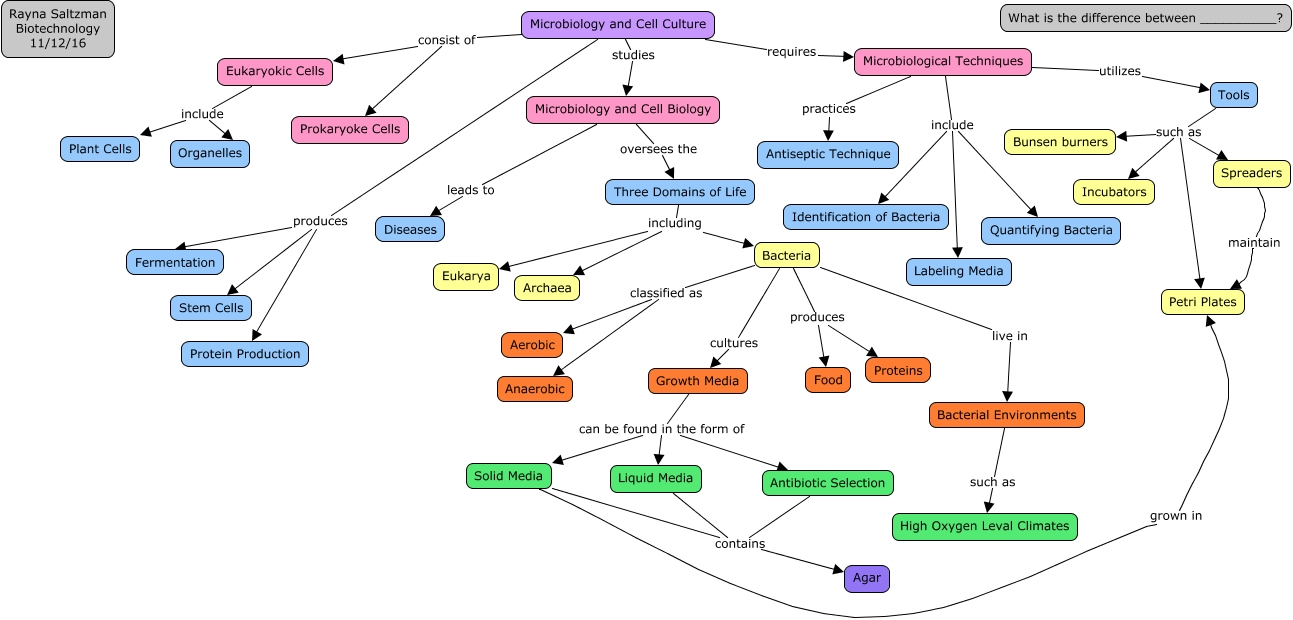
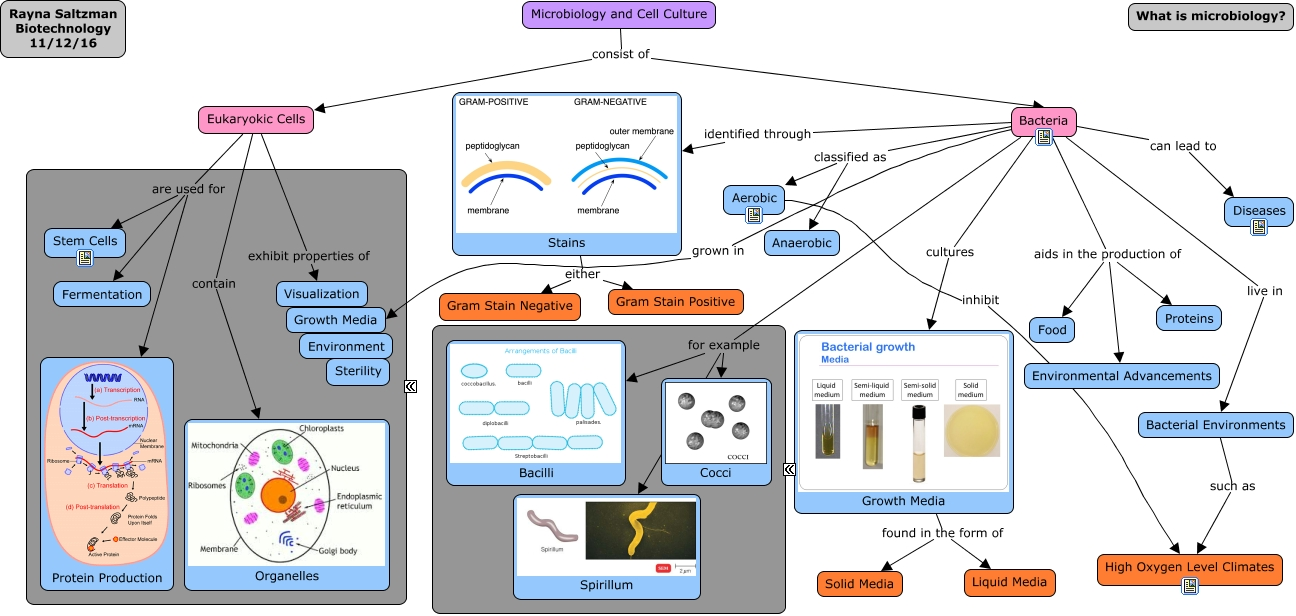
Add files via upload

diff --git a/Ch 3 CMAPweb.html b/Ch 3 CMAPweb.html
@@ -1,0 +1,332 @@
+<HTML>
+<HEAD>
+  <TITLE>Ch 3 CMAPweb.html</TITLE>
+  <meta NAME = "GENERATOR"          CONTENT = "IHMC CmapTools vr. 4.12 ">
+  <meta NAME = "KEYWORDS"           CONTENT = "Rayna Saltzman, Concept Map, cmap, CmapTools, IHMC, Ch 3 CMAP,  Visualization,  High Oxygen Level Climates,  Bacilli,  Aerobic,  Fermentation,  Diseases,  Environment,  Sterility,  Anaerobic,  Shapes,  Gram Stain Positive,  Bacteria,  Growth Media,  Organelles,  Solid Media,  Stains,  Environmental Advancements,  Liquid Media,  Rayna Saltzman Biotechnology 11/12/16,  Microbiology and Cell Culture">
+  <meta NAME = "DESCRIPTION"        CONTENT = "This Concept Map, created with IHMC CmapTools, has information related to: Ch 3 CMAP, Stains either Gram Stain Negative, Bacteria grown in Growth Media, Bacteria identified through Stains, Stains either Gram Stain Positive, Eukaryokic Cells exhibit properties of Visualization, Eukaryokic Cells are used for Stem Cells, Eukaryokic Cells contain Organelles, Microbiology and Cell Culture consist of Eukaryokic Cells, Bacteria classified as Anaerobic, Eukaryokic Cells are used for Protein Production, Bacteria for example Spirillum, Eukaryokic Cells are used for Fermentation, Bacteria aids in the production of Proteins, Bacteria for example Cocci, Growth Media found in the form of Solid Media, Bacteria cultures Growth Media, Bacteria live in Bacterial Environments, Aerobic inhibit High Oxygen Level Climates, Bacteria aids in the production of Environmental Advancements, Bacteria aids in the production of Food">
+  <meta NAME = "AUTHOR"             CONTENT = "IHMC CmapTools">
+  <meta HTTP-EQUIV = "Content-Type" CONTENT = "text/html; charset = UTF-8">
+  <script LANGUAGE="JavaScript1.2">
+  <!--
+    //  PopUp --
+    //  Institute for Human and Machine Cognition, http://www.ihmc.us/
+    //  CmapTools, Version 4.11, http://cmap.ihmc.us/
+    //  Modify by: CmapTools Developers, cmapsupport@ihmc.us
+    //  Date: 12/14/2006
+
+    var IE = 0;
+    var IE4PC = 0;
+    var NS = 0;
+    var GECKO = 0;
+
+    var openpopups = new Array();
+
+    if (document.all) {                 // Internet Explorer Detected
+	   IE = true;	
+    }
+    else if (document.layers) {         // Netscape Navigator Detected
+	   NS = true;	
+    }
+    else if (document.getElementById) { // Netscape 6 Detected
+       GECKO = true;
+    }
+    else {
+	   alert("Unrecognized Browser Detected::\nSorry, your browser is not compatible.");
+    }
+
+    if (IE)
+    {
+	   OS = navigator.platform;
+	   VER = new String(navigator.appVersion);
+	   VER = VER.substr (0, VER.indexOf(" "));
+	   if ((VER < 4.8) && (OS == "Win32")) 
+	   {
+	       IE4PC = 1;
+	   }
+    }
+
+    function handleResize() {
+	    location.reload();
+	    return false;
+    }
+
+
+    if ((NS) && (navigator.platform == "MacPPC")) {
+	   window.captureEvents (Event.RESIZE);
+	   window.onresize = handleResize;
+    }
+
+    function openResource(event, resourcePath, resourceName, resourceType)
+    {
+	   var newwindow;
+
+       // Resource MIMETypes are enumerated as follows: 
+       // cMap     = Undefined
+       // Image    = 0
+       // Video    = 1
+       // Text     = 2
+       // Audio    = 3
+
+       popDown();
+
+	   switch (resourceType) 
+	   {
+	    case 0:     //Image
+                    newwindow = window.open (resourcePath,resourceName);
+                    newwindow.onBlur = newwindow.focus()
+                    var text ='<center><img src=\"';
+                    text += resourcePath;
+                    text +='\"> </center>';
+             break;
+		
+	    case 1:  text   // Video
+		     newwindow = window.open (resourcePath,resourceName);
+                     newwindow.onBlur = newwindow.focus()
+                     var text ='<embed src=\"';
+                     text += resourcePath;
+                     text +='\" autostart=true> </embed> ';
+             break;
+
+	    case 2:      // Text or Unknown 
+		     newwindow = window.open(resourcePath,resourceName);
+                     newwindow.onBlur = newwindow.focus()
+              break;
+
+	    case 3:       // Audio
+                    newwindow = window.open (resourcePath,resourceName);
+                    newwindow.onBlur = newwindow.focus()
+                    var text ='<embed src=\"';
+                    text += resourcePath;
+                    text +='\" autoplay=true> </embed> ';
+             break;
+
+	    case 4:
+                    newwindow = window.open(resourcePath,resourceName);
+                    newwindow.onBlur = newwindow.focus()
+	     break;
+	    }
+        return;
+    }
+
+
+
+    function popUpEvt(event, popupName)
+    {
+	popDown();
+
+	if (GECKO)
+	{
+	    document.getElementById(popupName).style.left = event.layerX;
+	    document.getElementById(popupName).style.top = event.layerY;
+	    document.getElementById(popupName).style.background = "#B3B3B3";
+	    document.getElementById(popupName).style.visibility = "visible";
+	    openpopups.push(popupName);
+	}
+	else if (NS) 
+	{
+	    document.layers[popupName].moveTo (event.pageX, event.pageY);
+	    document.layers[popupName].bgColor = "#B3B3B3";
+	    document.layers[popupName].visibility = "show";
+	    openpopups.push(popupName);
+	}
+	else // if (IE)
+	{
+	    window.event.cancelBubble = true;
+	    if (!IE4PC) {
+		document.all[popupName].style.backgroundColor = "#B3B3B3";
+	    }	
+	    document.all[popupName].style.left = window.event.clientX + document.body.scrollLeft;
+	    document.all[popupName].style.top = window.event.clientY + document.body.scrollTop;
+	    document.all[popupName].style.visibility = "visible";
+	    openpopups[openpopups.length] = popupName;
+	}
+	return false;
+    }
+
+    function popDown()
+    {
+	var popupname;
+	
+	for (var i = 0; i < openpopups.length; i++) 
+	{
+	    popupname = new String (openpopups[i]);      
+	    if (GECKO) {
+		document.getElementById(popupname).style.visibility = "hidden";
+	    }
+	    else if (NS) {
+		document.layers[popupname].visibility = "hide";
+	    }
+	    else {
+		document.all[popupname].style.visibility = "hidden";
+	    }
+	}
+	openpopups = new Array();
+	return;
+    }
+
+    function popDownNoGecko() 
+    {
+	var popupname;
+	for (var i = 0; i < openpopups.length; i++) 
+	{
+	    popupname = new String (openpopups[i]);      
+	    if (GECKO) {
+           //  document.getElementById(popupname).style.visibility = "hidden"; 
+	        return;   // erased for test purposes
+	    }  
+	    else if (NS) {
+	        document.layers[popupname].visibility = "hide";
+	    }
+	    else {
+	        document.all[popupname].style.visibility = "hidden";
+	    }
+	}
+	openpopups = new Array();
+        return;
+    }
+  //-->
+  </script>
+</HEAD>
+<BODY bgcolor="#FFFFFF" leftmargin="0" topmargin="0">
+<noscript>
+  <table width=90% cellpadding=10>
+    <tr>
+      <td bgcolor=ff4447>
+        <font color=000000 size=+1 face="helvetica">
+        <h1>WARNING:</h1>
+        <b>JavaScript is turned OFF.  None of the links on this concept map will <br>
+           work until it is reactivated.
+          <p>
+            <a href="http://cmap.ihmc.us/docs/EnablingJavaScript.html">
+                            If you need help turning JavaScript On, click here.
+            </a>
+          </p>
+        </b>
+      </td>
+    </tr>
+  </table>
+This Concept Map, created with IHMC CmapTools, has information related to: Ch 3 CMAP, Stains either Gram Stain Negative, Bacteria grown in Growth Media, Bacteria identified through Stains, Stains either Gram Stain Positive, Eukaryokic Cells exhibit properties of Visualization, Eukaryokic Cells are used for Stem Cells, Eukaryokic Cells contain Organelles, Microbiology and Cell Culture consist of Eukaryokic Cells, Bacteria classified as Anaerobic, Eukaryokic Cells are used for Protein Production, Bacteria for example Spirillum, Eukaryokic Cells are used for Fermentation, Bacteria aids in the production of Proteins, Bacteria for example Cocci, Growth Media found in the form of Solid Media, Bacteria cultures Growth Media, Bacteria live in Bacterial Environments, Aerobic inhibit High Oxygen Level Climates, Bacteria aids in the production of Environmental Advancements, Bacteria aids in the production of Food
+
+</noscript>
+
+<map name="Ch 3 CMAPweb.html">
+  <area shape="rect"
+        href="1QRJP9HH5I17PWDYWIF72ItextIhtml"
+        onClick="popUpEvt(event,'1QRJP9HH5I17PWDYWIF72ItextIhtml'); return false;"
+        coords="1181,577,1199,595">
+  <area shape="rect"
+        href="1QRJRV1ZQIPDD21VIJKRItextIhtml"
+        onClick="popUpEvt(event,'1QRJRV1ZQIPDD21VIJKRItextIhtml'); return false;"
+        coords="745,206,763,224">
+  <area shape="rect"
+        href="1QRRPHL1VI2XQSS3INSKItextIhtml"
+        onClick="popUpEvt(event,'1QRRPHL1VI2XQSS3INSKItextIhtml'); return false;"
+        coords="1250,218,1268,236">
+  <area shape="rect"
+        href="1QRJP4KGGIVDD998IDNWItextIhtml"
+        onClick="popUpEvt(event,'1QRJP4KGGIVDD998IDNWItextIhtml'); return false;"
+        coords="1035,128,1053,146">
+  <area shape="rect"
+        href="1QRJLSM6PIHTX5TFI1LZItextIhtml"
+        onClick="popUpEvt(event,'1QRJLSM6PIHTX5TFI1LZItextIhtml'); return false;"
+        coords="76,249,94,267">
+</map>
+
+<center>
+  <table width=* height=* cellpadding=0 cellspacing=0 border=0>
+    <tr>
+      <td valign=center align=center>
+        <img USEMAP="#Ch 3 CMAPweb.html"
+             SRC="Ch 3 CMAPweb.jpg"
+             ALIGN=middle
+             BORDER=0
+             onClick=popDown();>
+      </td>
+    </tr>
+    <tr>
+      <td VALIGN=top ALIGN=right>
+        <table>
+          <tr>
+            <td ALIGN=right VALIGN=middle>
+              <map NAME="CmapToolsTrademark">
+                <area SHAPE="rect"
+                      href="http://cmap.ihmc.us/"
+                      onClick="openResource(event,'http://cmap.ihmc.us/', 0, 2); return false;"
+                      coords="1,1,210,50">
+              </map>
+            </td>
+          </tr>
+          <tr>
+            <td  ALIGN=right VALIGN=middle>
+              <img USEMAP="#CmapToolsTrademark"
+                   SRC="CmapToolsTrademark.gif" 
+                   ALT="IHMC Cmap Tools Trademark" width="210" height="50"
+                   ALIGN=middle
+                   BORDER=0>
+            </td>
+            <td VALIGN=middle>
+            </td>
+          </tr>
+        </table>
+      </td>
+    </tr>
+  </table>
+</center>
+</BODY>
+</HTML>
+<div id="1QRJP9HH5I17PWDYWIF72ItextIhtml" style="POSITION: absolute; Z-INDEX: 20; VISIBILITY: hidden; left: 0; top: 0;">
+  <table border=1 cellpadding=1 cellspacing=0 bgcolor="#dddddd">
+    <tr>
+      <td nowrap><font face="Geneva, Arial" size=2>
+      <a href="http://aem.asm.org/content/79/16/4921.full "TITLE="">
+      Oxygen Consumption Rates of Bacteria under Nutrient-Limited Conditions
+      </a>
+      </td>
+    </tr>
+  </table>
+</div>
+<div id="1QRJRV1ZQIPDD21VIJKRItextIhtml" style="POSITION: absolute; Z-INDEX: 20; VISIBILITY: hidden; left: 0; top: 0;">
+  <table border=1 cellpadding=1 cellspacing=0 bgcolor="#dddddd">
+    <tr>
+      <td nowrap><font face="Geneva, Arial" size=2>
+      <a href="https://microbiomejournal.biomedcentral.com/articles/10.1186/2049-2618-1-16 "TITLE="">
+      Co-occurrence of anaerobic bacteria in colorectal carcinomas - Microbiome - Full Text
+      </a>
+      </td>
+    </tr>
+  </table>
+</div>
+<div id="1QRRPHL1VI2XQSS3INSKItextIhtml" style="POSITION: absolute; Z-INDEX: 20; VISIBILITY: hidden; left: 0; top: 0;">
+  <table border=1 cellpadding=1 cellspacing=0 bgcolor="#dddddd">
+    <tr>
+      <td nowrap><font face="Geneva, Arial" size=2>
+      <a href="http://www.nature.com/subjects/bacterial-infection "TITLE="">
+      Bacterial infection - Latest research and news - Nature
+      </a>
+      </td>
+    </tr>
+  </table>
+</div>
+<div id="1QRJP4KGGIVDD998IDNWItextIhtml" style="POSITION: absolute; Z-INDEX: 20; VISIBILITY: hidden; left: 0; top: 0;">
+  <table border=1 cellpadding=1 cellspacing=0 bgcolor="#dddddd">
+    <tr>
+      <td nowrap><font face="Geneva, Arial" size=2>
+      <a href="http://www.microbiologyinfo.com/different-size-shape-and-arrangement-of-bacterial-cells/ "TITLE="">
+      Different Size, Shape and Arrangement of Bacterial Cells
+      </a>
+      </td>
+    </tr>
+  </table>
+</div>
+<div id="1QRJLSM6PIHTX5TFI1LZItextIhtml" style="POSITION: absolute; Z-INDEX: 20; VISIBILITY: hidden; left: 0; top: 0;">
+  <table border=1 cellpadding=1 cellspacing=0 bgcolor="#dddddd">
+    <tr>
+      <td nowrap><font face="Geneva, Arial" size=2>
+      <a href="http://www.hhmi.org/biointeractive/cultured-human-embryonic-stem-cells "TITLE="">
+      Cultured Human Embryonic Stem Cells - HHMI BioInteractive
+      </a>
+      </td>
+    </tr>
+  </table>
+</div>
+
